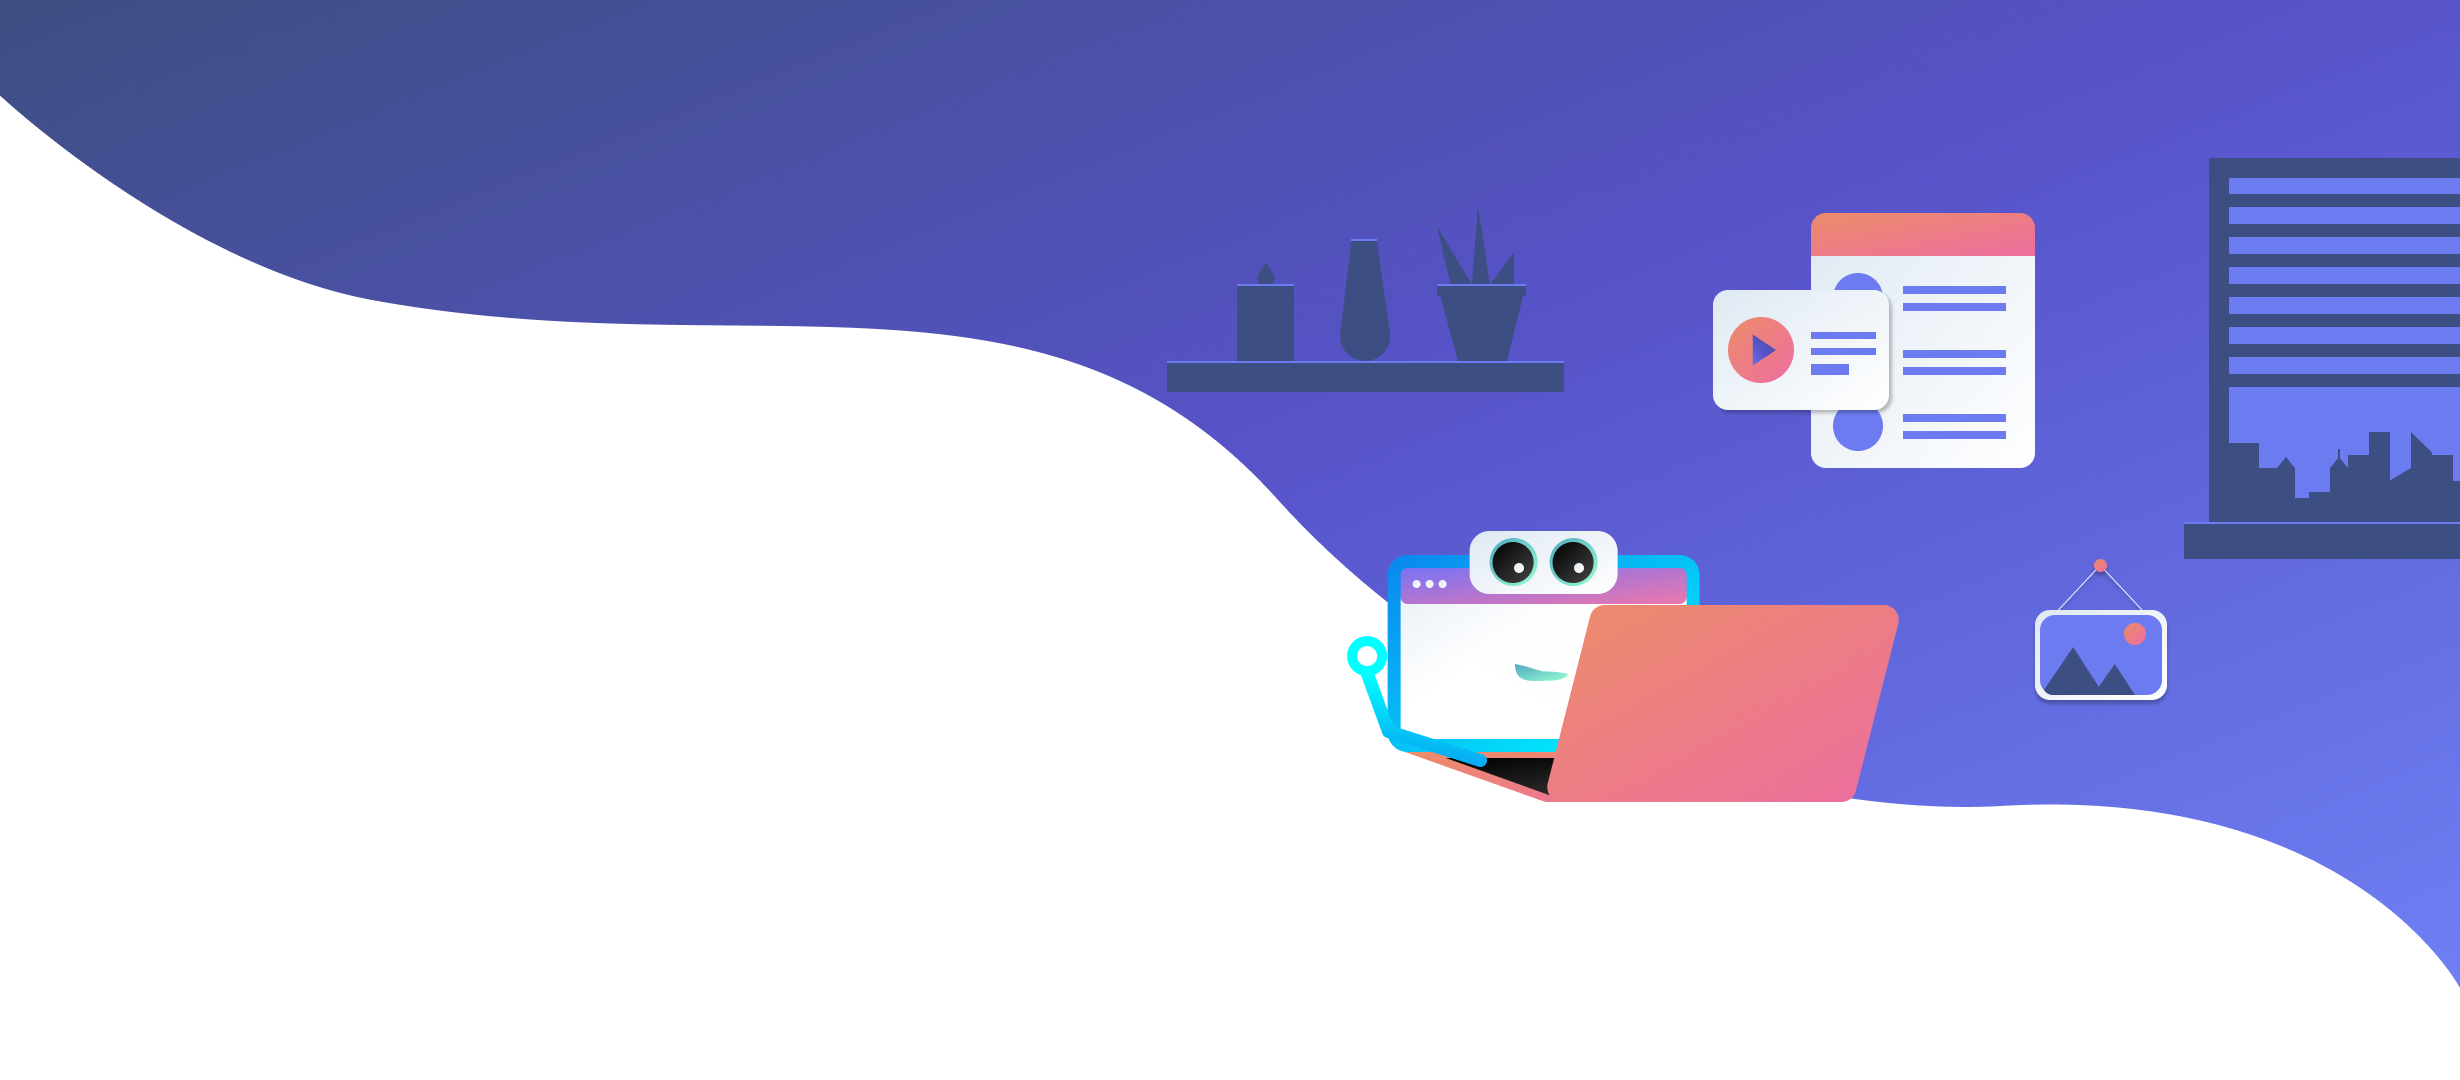
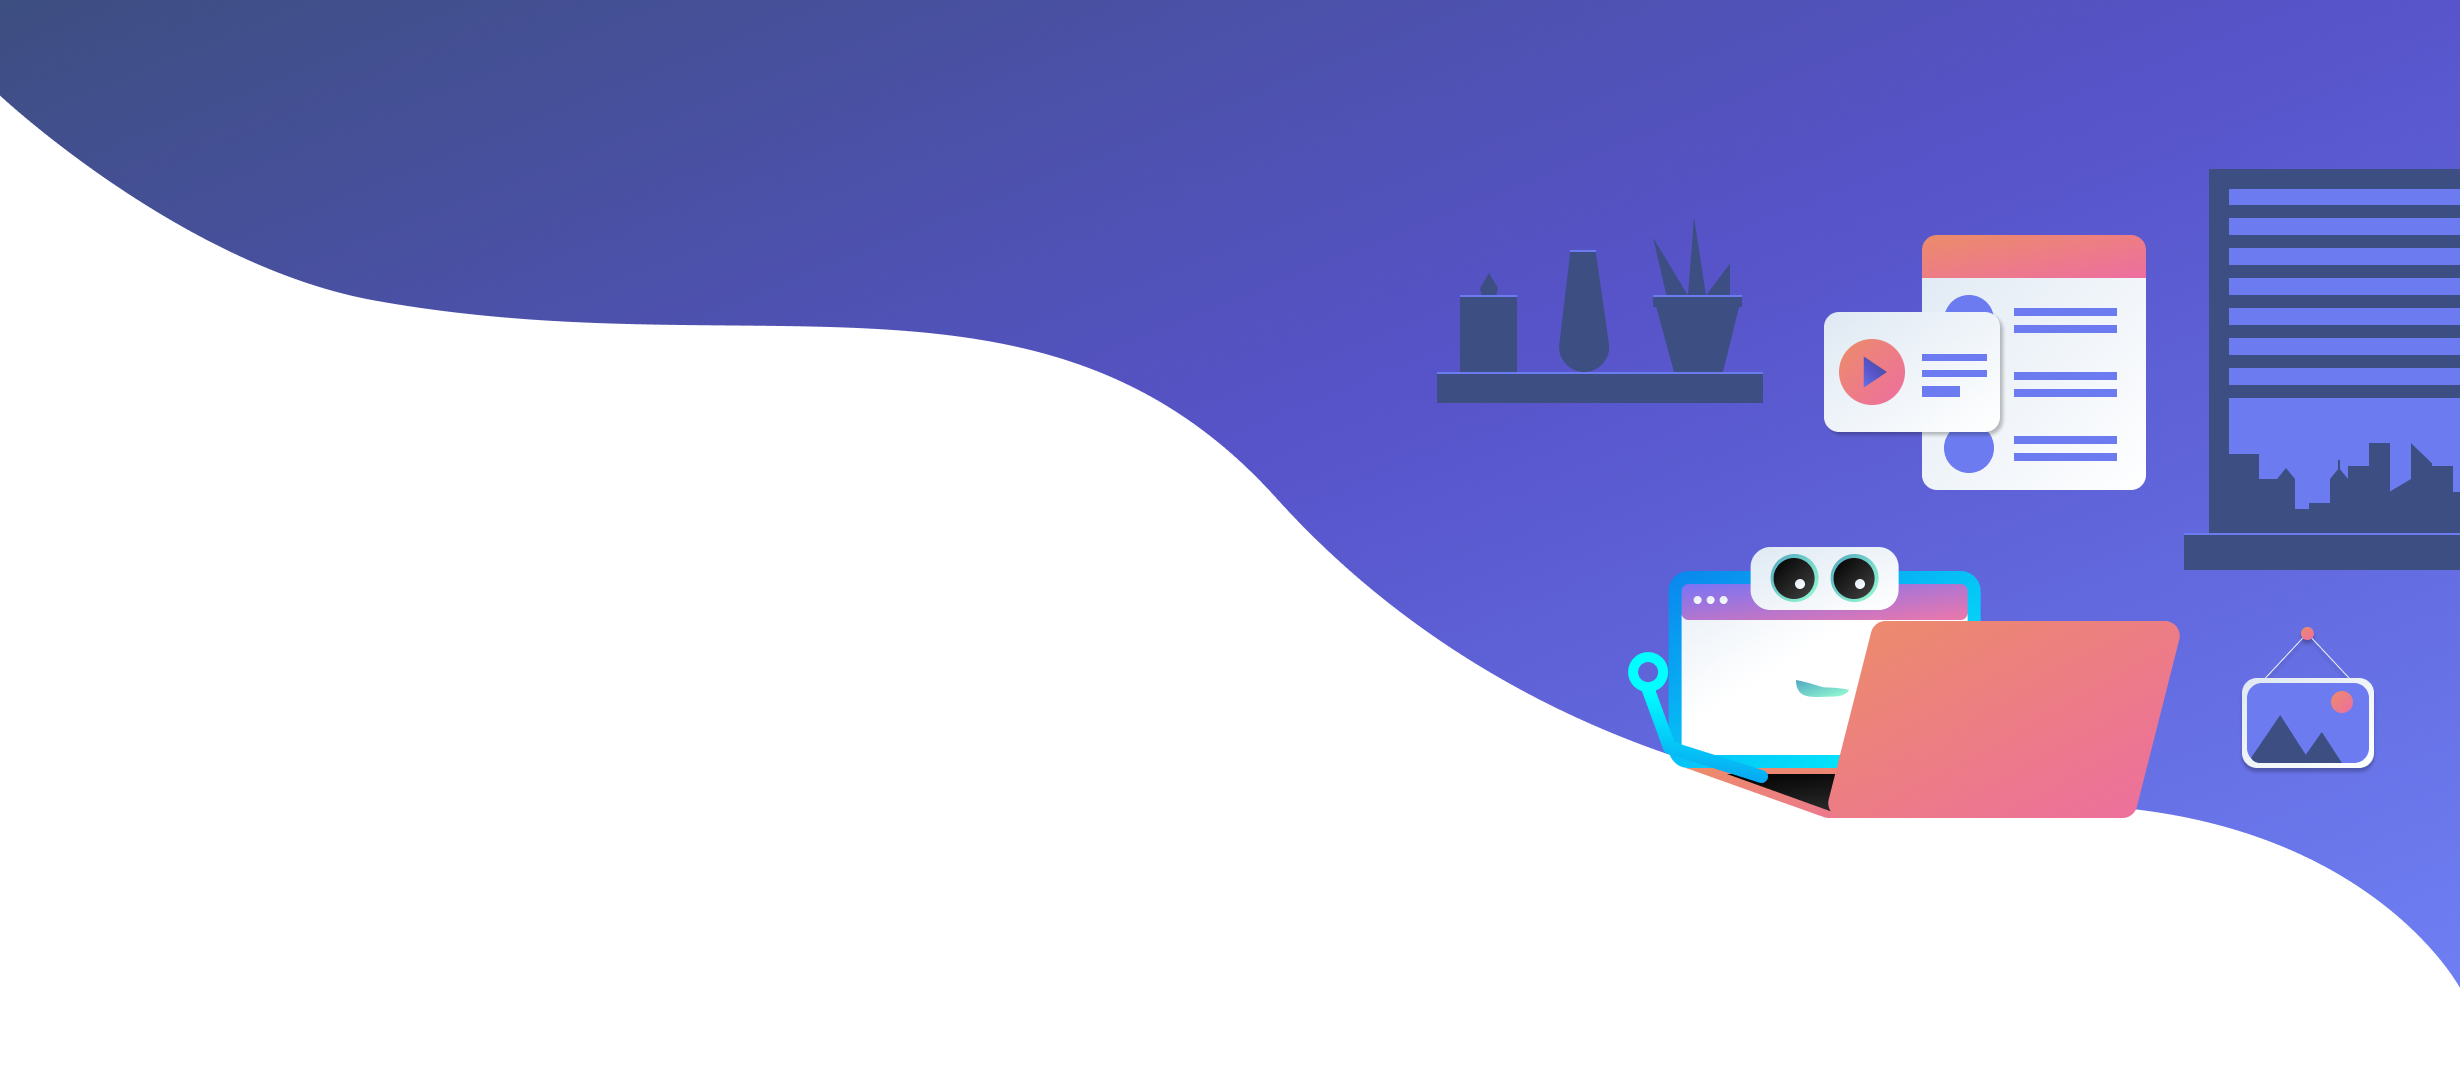
feat: change page background to wide

Changed region(s): [[0.4634, 0.1222, 1.0, 0.4583], [0.5252, 0.4889, 0.9577, 0.7639], [0.8959, 0.3972, 1.0, 0.55]]

diff --git a/src/containers/ServicesPage/ServicesPage.jsx b/src/containers/ServicesPage/ServicesPage.jsx
@@ -20,7 +20,7 @@ class ServicesPage extends React.Component {
     const { classes } = this.props;
     return (
       <div>
-        <Parallax image={require("assets/img/TopLandingBg1-wide.png")}>
+        <Parallax image={require("assets/img/LayananBg1-wide.png")}>
           <div className={classes.container}>
             <GridContainer>
               <GridItem xs={12} sm={12} md={6}>

diff --git a/src/containers/ContactPage/ContactPage.jsx b/src/containers/ContactPage/ContactPage.jsx
@@ -20,7 +20,7 @@ class ContactPage extends React.Component {
     const { classes } = this.props;
     return (
       <div>
-        <Parallax image={require("assets/img/TopLandingBg1.png")}>
+        <Parallax image={require("assets/img/ContactBg1-wide.png")}>
           <div className={classes.container}>
             <GridContainer>
               <GridItem xs={12} sm={12} md={6}>

diff --git a/src/containers/TeamPage/TeamPage.jsx b/src/containers/TeamPage/TeamPage.jsx
@@ -21,7 +21,7 @@ class TeamPage extends React.Component {
     const { classes } = this.props;
     return (
       <div>
-        <Parallax image={require("assets/img/OurTeamBg1.png")}>
+        <Parallax image={require("assets/img/OurTeamBg1-wide.png")}>
           <div className={classes.container}>
             <GridContainer>
               <GridItem xs={12} sm={12} md={6}>
